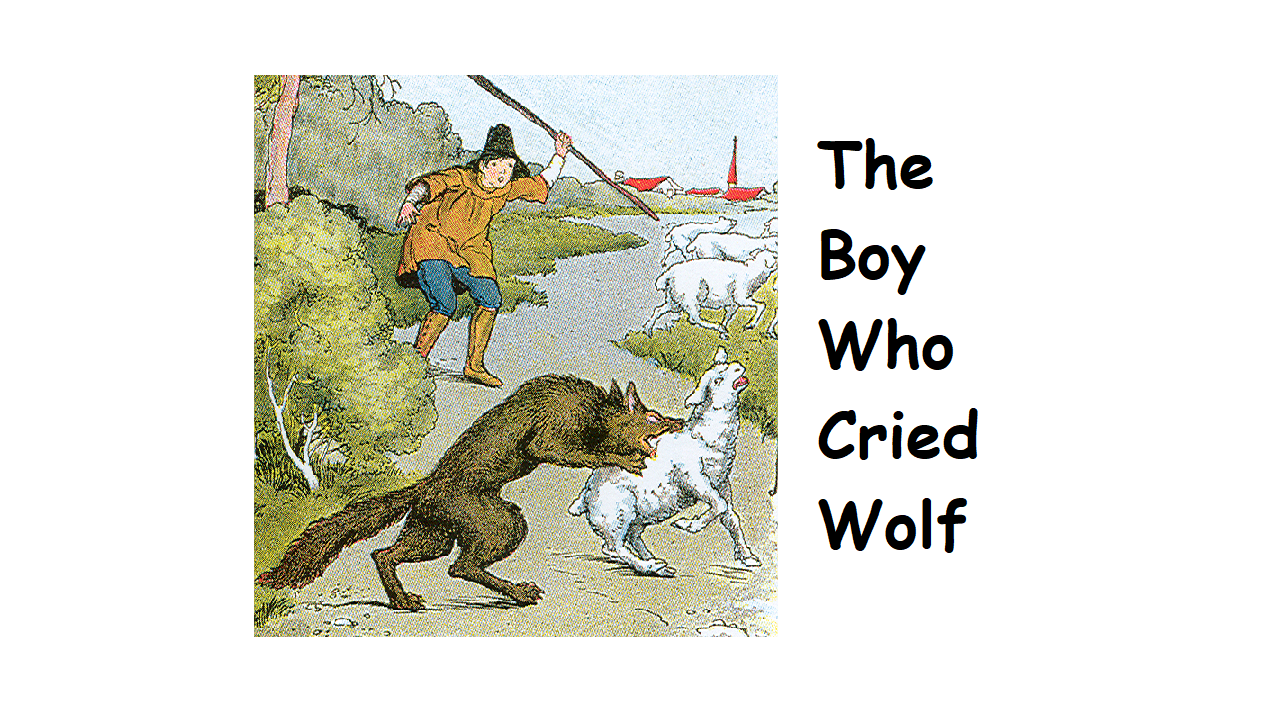
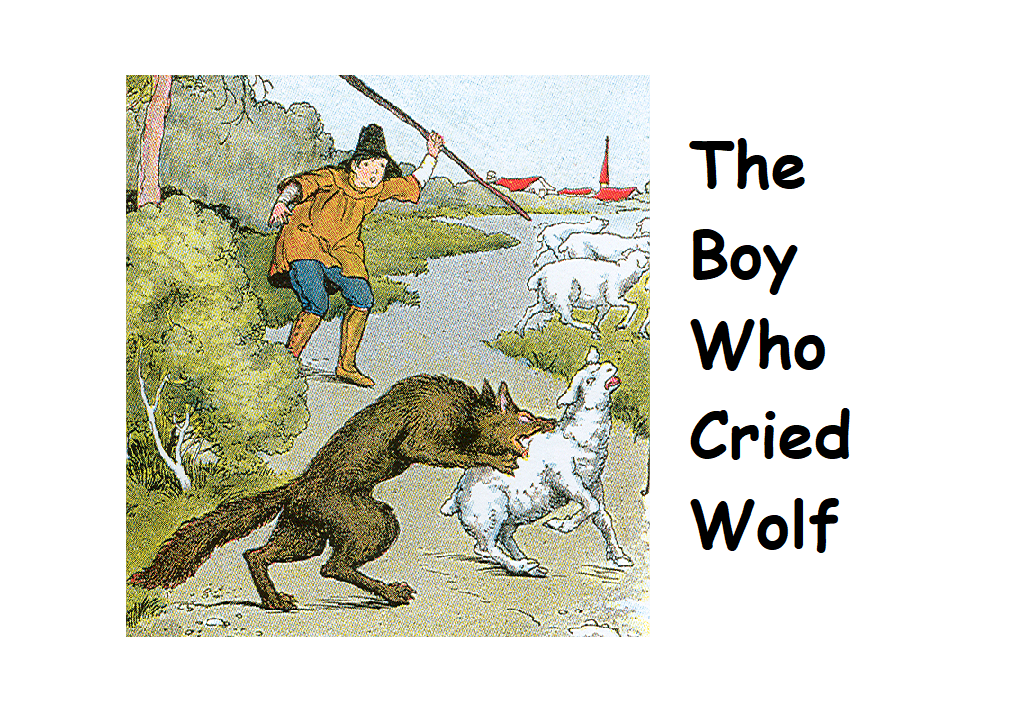
Tightening Up UI on Stories and Imagines
Shrank icons, font, etc.

Also added a second, placeholder star for the little red hen story

diff --git a/BrainyStories/BrainyStories/BrainyStories/Imagines.xaml b/BrainyStories/BrainyStories/BrainyStories/Imagines.xaml
@@ -110,20 +110,36 @@
                                     <StackLayout IsVisible="{Binding IsStoryVisible}" Padding="10" Orientation="Vertical">
                                         <Label Text ="{Binding Name}" FontAttributes="Bold" FontSize="35" />
                                         <Label Text ="{Binding Description}"
-                                               LineBreakMode="WordWrap" VerticalOptions="Start"  FontSize="25" FontFamily="{StaticResource Comic}" />
-                                        <StackLayout Orientation="Horizontal" VerticalOptions="Start">
-                                            <Label Text="{Binding DurationInTimeSpan}"
-                                               VerticalOptions="Start"  FontSize="25" FontFamily="{StaticResource Comic}" />
-                                            <Label Text="{Binding WordCount}"
-                                               VerticalOptions="Start"  FontSize="25" FontFamily="{StaticResource Comic}" />
-                                            <Label Text=" Words"
-                                               VerticalOptions="Start"  FontSize="25" FontFamily="{StaticResource Comic}" />
+                                               LineBreakMode="WordWrap" VerticalOptions="Start"  FontSize="23" FontFamily="{StaticResource Comic}" />
 
-                                            <ImageButton HorizontalOptions="Start" WidthRequest= "50"
+                                        <!--Grid for the Stars-->
+                                        <Grid>
+                                            <Grid.RowDefinitions>
+                                                <RowDefinition Height="*" />
+                                            </Grid.RowDefinitions>
+                                            <Grid.ColumnDefinitions>
+                                                <ColumnDefinition Width="4*" />
+                                                <ColumnDefinition Width="2*" />
+                                                <ColumnDefinition Width="2*" />
+                                                <ColumnDefinition Width="1*" />
+                                                <ColumnDefinition Width="2*" />
+                                            </Grid.ColumnDefinitions>
+
+                                            <StackLayout Grid.Row="0" Grid.Column="0" Orientation="Horizontal" VerticalOptions="Start">
+                                                <!--Uncomment below if we need a timespan-->
+                                                <!--<Label Text="{Binding DurationInTimeSpanString}"
+                                                     FontSize="25" FontFamily="{StaticResource Comic}" />-->
+                                                <Label Text="{Binding WordCount}"
+                                                    VerticalOptions="Center"  FontSize="25" FontFamily="{StaticResource Comic}" />
+                                                <Label Text=" Words"
+                                                    VerticalOptions="Center"  FontSize="25" FontFamily="{StaticResource Comic}" />
+                                            </StackLayout>
+
+                                            <ImageButton Grid.Row="0" Grid.Column="3" HorizontalOptions="End" WidthRequest= "50"
                                                          Source="{Binding ThinkAndDo.Star1Image}" Clicked="StarTapped" CommandParameter="1"  BackgroundColor="Transparent" />
-                                            <ImageButton HorizontalOptions="Start" WidthRequest="50"
+                                            <ImageButton Grid.Row="0" Grid.Column="5" HorizontalOptions="End" WidthRequest="50"
                                                          Source="{Binding ThinkAndDo.Star2Image}" Clicked="StarTapped" CommandParameter="2"  BackgroundColor="Transparent" />
-                                        </StackLayout>
+                                        </Grid>
                                     </StackLayout>
                                     <!--This half of the View Cell is for the Prize View-->
                                     <Image HeightRequest="{Binding HeightRequest}"

diff --git a/BrainyStories/BrainyStories/BrainyStories/StoryFactory.cs b/BrainyStories/BrainyStories/BrainyStories/StoryFactory.cs
@@ -69,123 +69,141 @@ namespace BrainyStories
                 //add stories and their pages to the db
                 using (var realmTransaction = realmFile.BeginWrite())
                 {
-                    //STORY 1
-                    var story1 = new Story()
+                    //use a simple audio player to measure duration
+                    using (var player = Plugin.SimpleAudioPlayer.CrossSimpleAudioPlayer.CreateSimpleAudioPlayer())
                     {
-                        StoryId = LION_AND_MOUSE_ID,
-                        Name = "The Lion and the Mouse",
-                        Icon = "S1_LATM_1.png",
-                        Appeal = (int)AppealType.Animal,
-                        Description = "A lion releases a mouse, believing it’s too small and weak ever to return the favor, " +
+                        //STORY 1
+                        var story1 = new Story()
+                        {
+                            StoryId = LION_AND_MOUSE_ID,
+                            Name = "The Lion and the Mouse",
+                            Icon = "S1_LATM_1.png",
+                            Appeal = (int)AppealType.Animal,
+                            Description = "A lion releases a mouse, believing it’s too small and weak ever to return the favor, " +
                         "but when the lion is trapped in a net the mouse gnaws the threads and releases the lion.",
-                        AudioClip = "S1_TLATM_Story.mp3",
-                        StorySetAsEnum = StorySet.StorySet1,
-                        WordCount = 395,
-                    };
+                            AudioClip = "S1_TLATM_Story.mp3",
+                            StorySetAsEnum = StorySet.StorySet1,
+                            WordCount = 395,
+                        };
 
-                    story1.ThinkAndDo = thinkAndDos.Where(x => x.StoryId == story1.StoryId).FirstOrDefault();
-                    stories.Add(story1);
-                    realmFile.Add(story1);
+                        story1.ThinkAndDo = thinkAndDos.Where(x => x.StoryId == story1.StoryId).FirstOrDefault();
 
-                    //these are a stop gap until we can separate the audio files into one file per segment
-                    var endTimes = new int[] { 5, 32, 49, 62, 97, 116, 150, 9999 }; //max time can be really high since the end of the story will be reached first
+                        player.Load(story1.AudioClip);
+                        story1.DurationInSeconds = player.Duration;
+                        stories.Add(story1);
+                        realmFile.Add(story1);
 
-                    //also add the pages of the story
-                    GenerateStoryPages(realmFile, LION_AND_MOUSE_ID, endTimes, "S1_LATM_1.png", "S1_LATM_2.jpg", "S1_LATM_3.jpg",
-                        "S1_LATM_4.jpg", "S1_LATM_5.jpg", "S1_LATM_6.jpg", "S1_LATM_7.jpg", "S1_LATM_8.jpg");
+                        //these are a stop gap until we can separate the audio files into one file per segment
+                        var endTimes = new int[] { 5, 32, 49, 62, 97, 116, 150, 9999 }; //max time can be really high since the end of the story will be reached first
 
-                    //STORY 2
-                    var story2 = new Story()
-                    {
-                        StoryId = LITTLE_RED_HEN_ID,
-                        Name = "The Little Red Hen",
-                        Icon = "S2_LRH_0.png",
-                        Appeal = (int)AppealType.Animal,
-                        Description = "Lazy animals refuse to help the hen plant the seed, harvest the grain, or bake the " +
-                            "bread, so the hen refuses to share the baked bread with the lazy animals.",
-                        AudioClip = "S2_LRH_Story.mp3",
-                        StorySetAsEnum = StorySet.StorySet1,
-                        WordCount = 477,
-                    };
+                        //also add the pages of the story
+                        GenerateStoryPages(realmFile, LION_AND_MOUSE_ID, endTimes, "S1_LATM_1.png", "S1_LATM_2.jpg", "S1_LATM_3.jpg",
+                            "S1_LATM_4.jpg", "S1_LATM_5.jpg", "S1_LATM_6.jpg", "S1_LATM_7.jpg", "S1_LATM_8.jpg");
 
-                    story2.ThinkAndDo = thinkAndDos.Where(x => x.StoryId == story2.StoryId).FirstOrDefault();
-                    stories.Add(story2);
-                    realmFile.Add(story2);
+                        //STORY 2
+                        var story2 = new Story()
+                        {
+                            StoryId = LITTLE_RED_HEN_ID,
+                            Name = "The Little Red Hen",
+                            Icon = "S2_LRH_0.png",
+                            Appeal = (int)AppealType.Animal,
+                            Description = "Lazy animals refuse to help the hen plant the seed, harvest the grain, or bake the " +
+                                "bread, so the hen refuses to share the baked bread with the lazy animals.",
+                            AudioClip = "S2_LRH_Story.mp3",
+                            StorySetAsEnum = StorySet.StorySet1,
+                            WordCount = 477,
+                        };
 
-                    endTimes = new int[] { 24, 54, 63, 96, 127, 160, 9999 };
+                        story2.ThinkAndDo = thinkAndDos.Where(x => x.StoryId == story2.StoryId).FirstOrDefault();
 
-                    GenerateStoryPages(realmFile, LITTLE_RED_HEN_ID, endTimes, "S2_LRH_1.jpg", "S2_LRH_2.jpg", "S2_LRH_3.jpg", "S2_LRH_4.jpg",
-                        "S2_LRH_5.jpg", "S2_LRH_6.jpg", "S2_LRH_7.jpg");
+                        player.Load(story2.AudioClip);
+                        story2.DurationInSeconds = player.Duration;
+                        stories.Add(story2);
+                        realmFile.Add(story2);
 
-                    //STORY 3
-                    var story3 = new Story()
-                    {
-                        StoryId = BOY_CRIED_WOLF_ID,
-                        Name = "The Boy Who Cried Wolf",
-                        Icon = "S3_TBWCW_1.png",
-                        Appeal = (int)AppealType.Male,
-                        Description = "Bored watching over the sheep, a boy causes excitement by lying that a wolf " +
-                            "threatens; when a real wolf attacks, the people think the boy’s lying and won’t come to help him.",
-                        AudioClip = "S3_BWCW_Story.mp3",
-                        StorySetAsEnum = StorySet.StorySet1,
-                        WordCount = 722
-                    };
+                        endTimes = new int[] { 24, 54, 63, 96, 127, 160, 9999 };
 
-                    story3.ThinkAndDo = thinkAndDos.Where(x => x.StoryId == story3.StoryId).FirstOrDefault();
-                    stories.Add(story3);
-                    realmFile.Add(story3);
+                        GenerateStoryPages(realmFile, LITTLE_RED_HEN_ID, endTimes, "S2_LRH_1.jpg", "S2_LRH_2.jpg", "S2_LRH_3.jpg", "S2_LRH_4.jpg",
+                            "S2_LRH_5.jpg", "S2_LRH_6.jpg", "S2_LRH_7.jpg");
 
-                    endTimes = new int[] { 2, 34, 77, 105, 141, 179, 209, 223, 9999 };
+                        //STORY 3
+                        var story3 = new Story()
+                        {
+                            StoryId = BOY_CRIED_WOLF_ID,
+                            Name = "The Boy Who Cried Wolf",
+                            Icon = "S3_TBWCW_1.png",
+                            Appeal = (int)AppealType.Male,
+                            Description = "Bored watching over the sheep, a boy causes excitement by lying that a wolf " +
+                                "threatens; when a real wolf attacks, the people think the boy’s lying and won’t come to help him.",
+                            AudioClip = "S3_BWCW_Story.mp3",
+                            StorySetAsEnum = StorySet.StorySet1,
+                            WordCount = 722
+                        };
 
-                    GenerateStoryPages(realmFile, BOY_CRIED_WOLF_ID, endTimes, "S3_TBWCW_1.png", "S3_TBWCW_2.jpg", "S3_TBWCW_3.jpg", "S3_TBWCW_4.jpg",
-                        "S3_TBWCW_5.jpg", "S3_TBWCW_6.jpg", "S3_TBWCW_7.jpg", "S3_TBWCW_8.jpg", "S3_TBWCW_9.jpg");
+                        story3.ThinkAndDo = thinkAndDos.Where(x => x.StoryId == story3.StoryId).FirstOrDefault();
 
-                    //STORY 4
-                    var story4 = new Story()
-                    {
-                        StoryId = ELVES_SHOEMAKER_ID,
-                        Name = "The Elves and Shoemaker",
-                        Icon = "S4_TEATS_1.png",
-                        Appeal = (int)AppealType.General,
-                        Description = "By secretly making shoes, two elves save a poor shoemaker and his wife; " +
-                        "the man and wife make clothes to reward the elves, who leave when their help is no longer needed.",
-                        AudioClip = "S4_TEATS_Story.mp3",
-                        StorySetAsEnum = StorySet.StorySet1,
-                        WordCount = 830
-                    };
+                        player.Load(story3.AudioClip);
+                        story3.DurationInSeconds = player.Duration;
+                        stories.Add(story3);
+                        realmFile.Add(story3);
 
-                    story4.ThinkAndDo = thinkAndDos.Where(x => x.StoryId == story4.StoryId).FirstOrDefault();
-                    stories.Add(story4);
-                    realmFile.Add(story4);
+                        endTimes = new int[] { 2, 34, 77, 105, 141, 179, 209, 223, 9999 };
 
-                    endTimes = new int[] { 4, 66, 100, 132, 152, 213, 297, 9999 };
+                        GenerateStoryPages(realmFile, BOY_CRIED_WOLF_ID, endTimes, "S3_TBWCW_1.png", "S3_TBWCW_2.jpg", "S3_TBWCW_3.jpg", "S3_TBWCW_4.jpg",
+                            "S3_TBWCW_5.jpg", "S3_TBWCW_6.jpg", "S3_TBWCW_7.jpg", "S3_TBWCW_8.jpg", "S3_TBWCW_9.jpg");
 
-                    GenerateStoryPages(realmFile, ELVES_SHOEMAKER_ID, endTimes, "S4_TEATS_1.png", "S4_TEATS_2.jpg", "S4_TEATS_3.jpg", "S4_TEATS_4.jpg",
-                            "S4_TEATS_5.jpg", "S4_TEATS_6.jpg", "S4_TEATS_7.jpg", "S4_TEATS_7.jpg");
+                        //STORY 4
+                        var story4 = new Story()
+                        {
+                            StoryId = ELVES_SHOEMAKER_ID,
+                            Name = "The Elves and Shoemaker",
+                            Icon = "S4_TEATS_1.png",
+                            Appeal = (int)AppealType.General,
+                            Description = "By secretly making shoes, two elves save a poor shoemaker and his wife; " +
+                            "the man and wife make clothes to reward the elves, who leave when their help is no longer needed.",
+                            AudioClip = "S4_TEATS_Story.mp3",
+                            StorySetAsEnum = StorySet.StorySet1,
+                            WordCount = 830
+                        };
 
-                    //STORY 5
-                    var story5 = new Story()
-                    {
-                        StoryId = THREE_PIGS_ID,
-                        Name = "The Three Little Pigs",
-                        Icon = "S5_TLP_0.png",
-                        Appeal = (int)AppealType.Animal,
-                        Description = "Two pigs squander their money and build shabby houses; their smarter brother " +
-                             "saves and works hard to build a brick house which protects them all from the big bad wolf.",
-                        AudioClip = "S5_TLP_Story.mp3",
-                        StorySetAsEnum = StorySet.StorySet1,
-                        WordCount = 986
-                    };
+                        story4.ThinkAndDo = thinkAndDos.Where(x => x.StoryId == story4.StoryId).FirstOrDefault();
 
-                    story5.ThinkAndDo = thinkAndDos.Where(x => x.StoryId == story5.StoryId).FirstOrDefault();
-                    stories.Add(story5);
-                    realmFile.Add(story5);
+                        player.Load(story4.AudioClip);
+                        story4.DurationInSeconds = player.Duration;
+                        stories.Add(story4);
+                        realmFile.Add(story4);
 
-                    endTimes = new int[] { 27, 65, 102, 151, 164, 194, 210, 237, 260, 288, 359, 372, 9999 };
+                        endTimes = new int[] { 4, 66, 100, 132, 152, 213, 297, 9999 };
 
-                    GenerateStoryPages(realmFile, THREE_PIGS_ID, endTimes, "S5_TLP_1.jpg", "S5_TLP_2.jpg", "S5_TLP_3.jpg", "S5_TLP_4.jpg", "S5_TLP_5.jpg",
-                          "S5_TLP_6.jpg", "S5_TLP_7.jpg", "S5_TLP_8.jpg", "S5_TLP_9.jpg", "S5_TLP_10.jpg", "S5_TLP_11.jpg", "S5_TLP_12.jpg", "S5_TLP_13.jpg");
+                        GenerateStoryPages(realmFile, ELVES_SHOEMAKER_ID, endTimes, "S4_TEATS_1.png", "S4_TEATS_2.jpg", "S4_TEATS_3.jpg", "S4_TEATS_4.jpg",
+                                "S4_TEATS_5.jpg", "S4_TEATS_6.jpg", "S4_TEATS_7.jpg", "S4_TEATS_7.jpg");
 
+                        //STORY 5
+                        var story5 = new Story()
+                        {
+                            StoryId = THREE_PIGS_ID,
+                            Name = "The Three Little Pigs",
+                            Icon = "S5_TLP_0.png",
+                            Appeal = (int)AppealType.Animal,
+                            Description = "Two pigs squander their money and build shabby houses; their smarter brother " +
+                                 "saves and works hard to build a brick house which protects them all from the big bad wolf.",
+                            AudioClip = "S5_TLP_Story.mp3",
+                            StorySetAsEnum = StorySet.StorySet1,
+                            WordCount = 986
+                        };
+
+                        story5.ThinkAndDo = thinkAndDos.Where(x => x.StoryId == story5.StoryId).FirstOrDefault();
+
+                        player.Load(story5.AudioClip);
+                        story5.DurationInSeconds = player.Duration;
+                        stories.Add(story5);
+                        realmFile.Add(story5);
+
+                        endTimes = new int[] { 27, 65, 102, 151, 164, 194, 210, 237, 260, 288, 359, 372, 9999 };
+
+                        GenerateStoryPages(realmFile, THREE_PIGS_ID, endTimes, "S5_TLP_1.jpg", "S5_TLP_2.jpg", "S5_TLP_3.jpg", "S5_TLP_4.jpg", "S5_TLP_5.jpg",
+                              "S5_TLP_6.jpg", "S5_TLP_7.jpg", "S5_TLP_8.jpg", "S5_TLP_9.jpg", "S5_TLP_10.jpg", "S5_TLP_11.jpg", "S5_TLP_12.jpg", "S5_TLP_13.jpg");
+                    }
                     realmTransaction.Commit();
                 }
             }

diff --git a/BrainyStories/BrainyStories/BrainyStories/RealmObjects/Story.cs b/BrainyStories/BrainyStories/BrainyStories/RealmObjects/Story.cs
@@ -38,11 +38,12 @@ namespace BrainyStories
 
         //this is necessary because Realm doesn't support timespan
         [Ignored]
-        public TimeSpan DurationInTimeSpan
+        public String DurationInTimeSpanString
         {
             get
             {
-                return new TimeSpan(hours: 0, minutes: 0, seconds: (int)DurationInSeconds);
+                var durationTimeSpan = new TimeSpan(hours: 0, minutes: 0, seconds: (int)DurationInSeconds);
+                return durationTimeSpan.ToString();
             }
         }
 
@@ -74,7 +75,7 @@ namespace BrainyStories
             {
                 //TODO: figure out what to do with this number based on walter's feedback
                 //return this.StorySetAsEnum == RealmObjects.StorySet.StorySet1 ? 250 : 200;
-                return 200;
+                return 150;
             }
         }
 

diff --git a/BrainyStories/BrainyStories/BrainyStories/ThinkAndDoFactory.cs b/BrainyStories/BrainyStories/BrainyStories/ThinkAndDoFactory.cs
@@ -54,7 +54,9 @@ namespace BrainyStories
                         ThinkAndDoName = RED_HEN_NAME,
                         AssociatedImage = "S2_LRH_0.png",
                         ThinkAndDoAudioClip1 = "S2_LRH_TAD1.mp3",
+                        ThinkAndDoAudioClip2 = "S2_LRH_TAD1.mp3",
                         Text1 = "When the Little Red Hen found a grain of wheat what did she want to do with it? Put the story in order by what she did. Did she really want to do all the work alone all by herself? Who did she ask for help? Did the animals help the Little Red Hen in any way? After the Little Red Hen finished with the bread, what did she do?",
+                        Text2 = "Coming Soon!",
                         StoryId = StoryFactory.LITTLE_RED_HEN_ID
                     });
 

diff --git a/BrainyStories/BrainyStories/BrainyStories/RealmObjects/ThinkAndDo.cs b/BrainyStories/BrainyStories/BrainyStories/RealmObjects/ThinkAndDo.cs
@@ -32,11 +32,6 @@ namespace BrainyStories.Objects
         {
             get
             {
-                //an exception here for the red hen story
-                if (ThinkAndDoName.Equals(ThinkAndDoFactory.RED_HEN_NAME))
-                {
-                    return String.Empty;
-                }
                 return CompletedPrompt2 ? "GoldStar2.png" : "SilverStar2.png";
             }
         }
